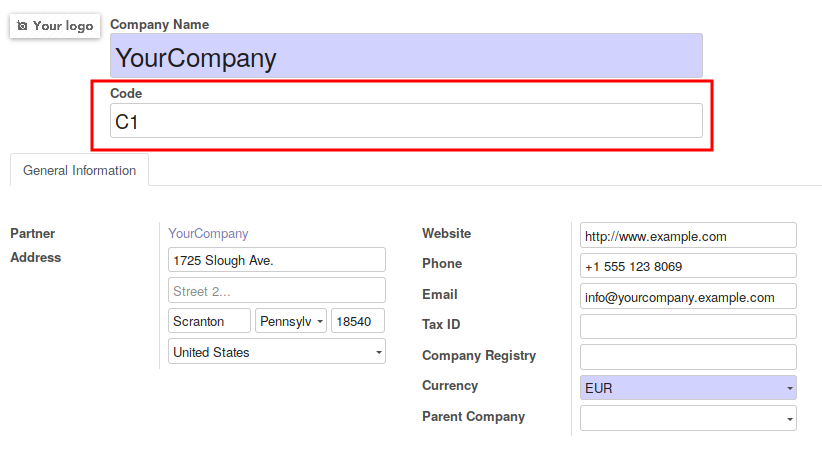
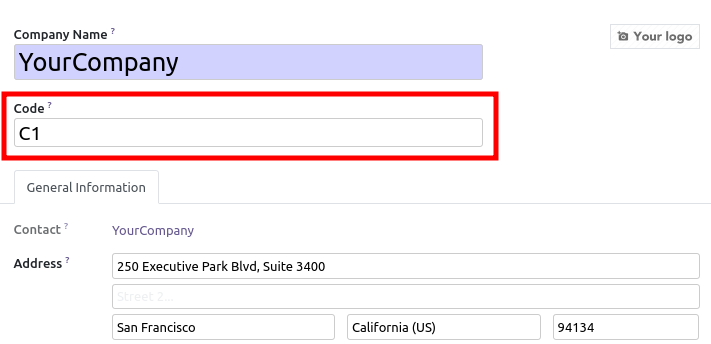
[MIG] res_company_code : migrate from 14.0 to 16.0

diff --git a/res_company_code/models/ir_http.py b/res_company_code/models/ir_http.py
@@ -17,14 +17,16 @@ class Http(models.AbstractModel):
             user.has_group("base.group_multi_company") and len(user.company_ids) > 1
         )
 
-        # Replace company name by company complete name in the session
-        # The values are used in the switch_company_menu widget (web module)
-        result["user_companies"]["current_company"] = (
-            user.company_id.id,
-            user.company_id.complete_name,
-        )
+        # 1. Replace company name by company complete name in the session
+        #    The values are used in the switch_company_menu widget (web module)
+        # 2. Recompute sequence. (as the widget hard-codes the order by sequence). See :
+        #    https://github.com/odoo/odoo/blob/fbd6a3bc10a3302e7061eb46eb246221e461e76d/addons/web/static/src/webclient/switch_company_menu/switch_company_menu.xml#L10  # noqa: B950
         if display_switch_company_menu:
-            result["user_companies"]["allowed_companies"] = [
-                (comp.id, comp.complete_name) for comp in user.company_ids
-            ]
+            for sequence, company in enumerate(user.company_ids):
+                result["user_companies"]["allowed_companies"].get(company.id).update(
+                    {
+                        "name": company.complete_name,
+                        "sequence": sequence,
+                    }
+                )
         return result

diff --git a/res_company_code/__manifest__.py b/res_company_code/__manifest__.py
@@ -5,17 +5,22 @@
 {
     "name": "Company Code",
     "summary": "Add 'code' field on company model",
-    "version": "14.0.1.0.1",
+    "version": "16.0.1.0.0",
     "category": "Tools",
     "author": "GRAP, Odoo Community Association (OCA)",
+    "maintainers": ["legalsylvain"],
     "website": "https://github.com/OCA/multi-company",
     "license": "AGPL-3",
-    "depends": ["web"],
-    "data": ["views/view_res_company.xml"],
-    "demo": ["demo/res_groups.xml", "demo/res_company.xml"],
-    "images": [
-        "static/description/res_company_form.png",
-        "static/description/res_company_tree.png",
+    "depends": [
+        "web",
+        "res_company_search_view",
+    ],
+    "data": [
+        "views/view_res_company.xml",
+    ],
+    "demo": [
+        "demo/res_groups.xml",
+        "demo/res_company.xml",
     ],
     "installable": True,
 }

diff --git a/res_company_code/models/res_company.py b/res_company_code/models/res_company.py
@@ -7,13 +7,11 @@ from odoo import api, fields, models
 
 class ResCompany(models.Model):
     _inherit = "res.company"
-    _order = "code, name"
+    _order = "code,name"
 
-    code = fields.Char(string="Code")
+    code = fields.Char()
 
-    complete_name = fields.Char(
-        string="Complete Name", compute="_compute_complete_name", store=True
-    )
+    complete_name = fields.Char(compute="_compute_complete_name", store=True)
 
     _sql_constraints = [
         ("code_uniq", "unique (code)", "The company code must be unique !")

diff --git a/res_company_code/tests/test_res_company_code.py b/res_company_code/tests/test_res_company_code.py
@@ -1,10 +1,10 @@
 # Copyright 2021 Akretion
 # License AGPL-3.0 or later (https://www.gnu.org/licenses/agpl).
 
-from odoo.tests.common import SavepointCase
+from odoo.tests.common import TransactionCase
 
 
-class TestResCompanyCode(SavepointCase):
+class TestResCompanyCode(TransactionCase):
     def _create_company(self, name, code):
         return self.env["res.company"].create({"name": name, "code": code})
 
